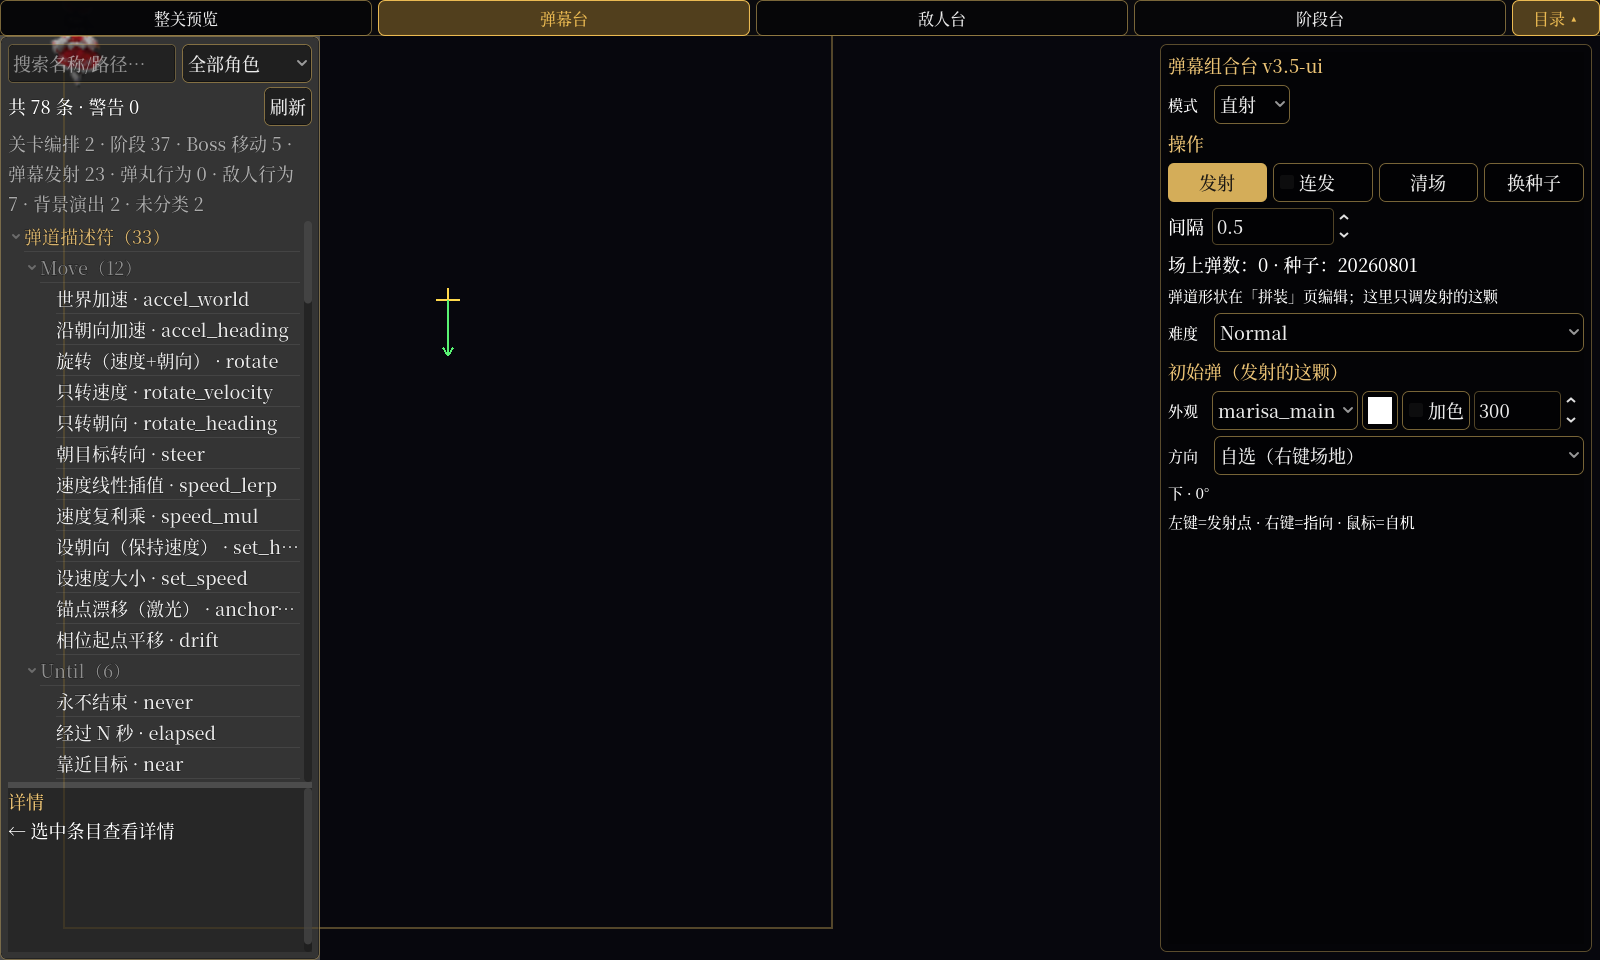
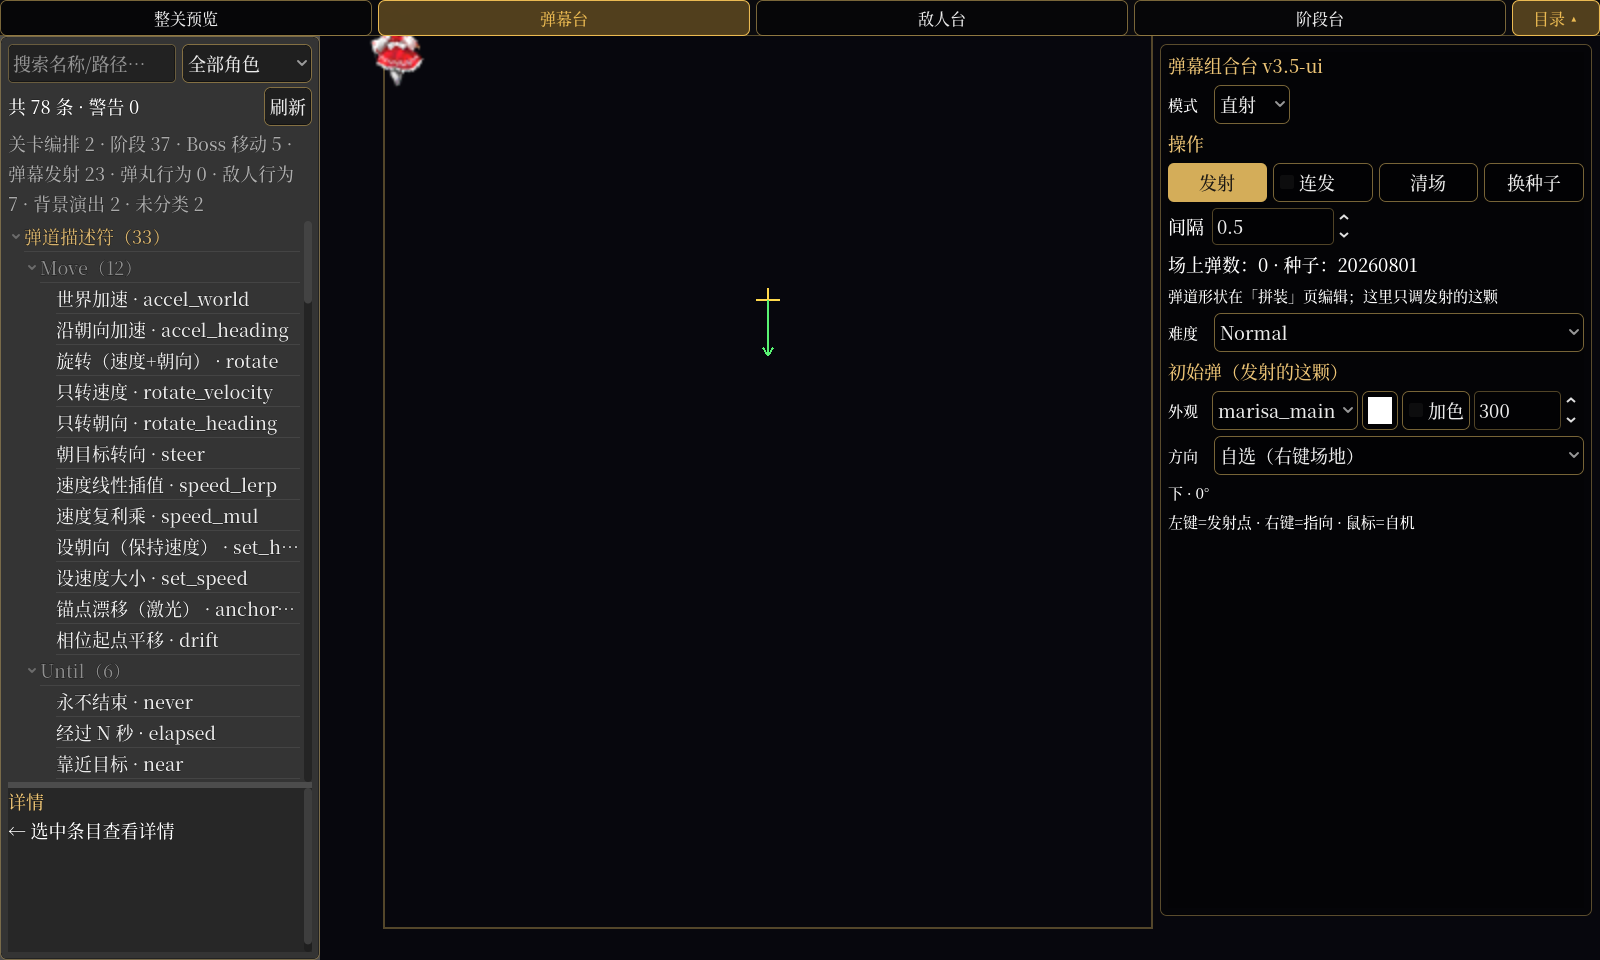
fix(workbench): D6 画布平移对齐，修复左栏盖场地/面板错位
- 根因：bench 场地/BulletManager 是 top_level，只移 Content 不生效；
  左栏盖住场地，右面板却跟着 Content 走
- 改用 viewport canvas_transform.origin.x 平移游戏画布（top_level 也生效）
- 三个 bench 右面板统一挂 BenchBase 的 CanvasLayer；嵌入时让出 36px 顶栏
- Workbench hitbox / stage logo 设 follow_viewport_enabled
- 离开创作台重置 canvas_transform / content_scale
- 更新 1600/1280 实拍；全量 832 / 7742，verify 七步全绿

Changed region(s): [[0.2188, 0.0312, 0.2812, 0.0938], [0.0312, 0.0312, 0.0625, 0.0938]]

diff --git a/docs/BEST_PRACTICES_LOG.md b/docs/BEST_PRACTICES_LOG.md
@@ -26,8 +26,9 @@
 
 ## 索引
 
-> 共 32 条（本文件留最近 32 条，其余在 `docs/archive/`；本段由 `tools/log_archive.py` 生成，手改会被覆盖）。
+> 共 33 条（本文件留最近 33 条，其余在 `docs/archive/`；本段由 `tools/log_archive.py` 生成，手改会被覆盖）。
 
+- 2026-10-18 — D6 修正：canvas_transform + bench UI CanvasLayer
 - 2026-10-18 — D6：1600 布局 + 320 常驻左栏
 - 2026-10-18 — D3 第五批：PreviewPlayback / PreviewBookmarks
 - 2026-10-18 — D3 第四批：PreviewStageLoader
@@ -62,6 +63,14 @@
 - 2026-10-04 — 废止「记得调用才显示」：背景演出层改**宿主自动接线**（练习模式也开黑雾）
 
 ## 记录
+
+### 2026-10-18 — D6 修正：canvas_transform + bench UI CanvasLayer
+
+- 根因：bench 的场地/BulletManager 是 `top_level`，只把 Content 右移不会带动它们；左栏因此盖住场地、右面板却跟着 Content 走了。
+- 修法：创作台改用 **viewport `canvas_transform.origin.x`** 整体平移游戏画布（top_level 也生效）；UI 用 CanvasLayer 不跟着走。
+- 三个 bench 的右面板统一挂到 `BenchBase.add_panel_to_layer()` 的 CanvasLayer(1)，嵌入时 top+36/bottom−36 让出顶栏；hitbox/Stage logo 设 `follow_viewport_enabled=true`。
+- 离开创作台重置 canvas_transform / content_scale；1600 实拍场地 384..1152、右面板 1160..1592，1280 自动收起为 0..832 / 840..1272。
+- 全量 832 / 7742，verify 七步全绿。
 
 ### 2026-10-18 — D6：1600 布局 + 320 常驻左栏
 

diff --git a/docs/TEST_INDEX.md b/docs/TEST_INDEX.md
@@ -19,7 +19,7 @@
 ./tools/verify.sh --fast                             # 快速冒烟（~8s，不全量）
 ```
 
-**现状**：119 脚本 / **832 用例（832 通过 / 0 红 —— ✅ 全绿）/ 7742 断言 / 56.924s** / 19 orphans / **0 pending**。
+**现状**：119 脚本 / **832 用例（832 通过 / 0 红 —— ✅ 全绿）/ 7742 断言 / 57.087s** / 19 orphans / **0 pending**。
 
 ## 分层
 
